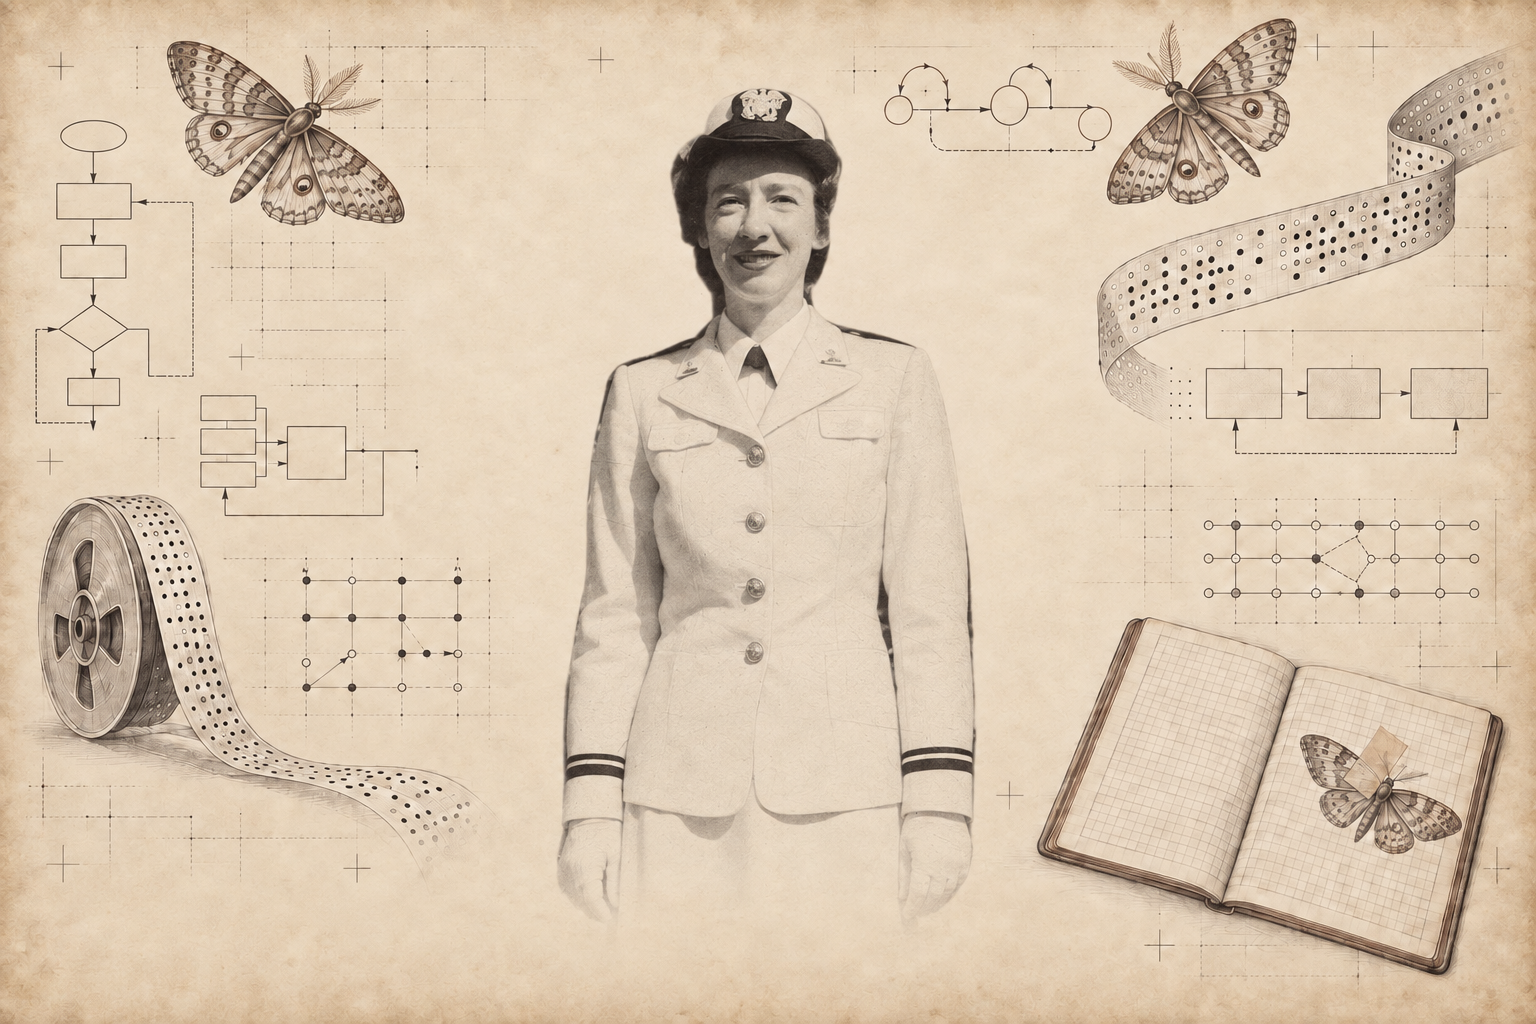
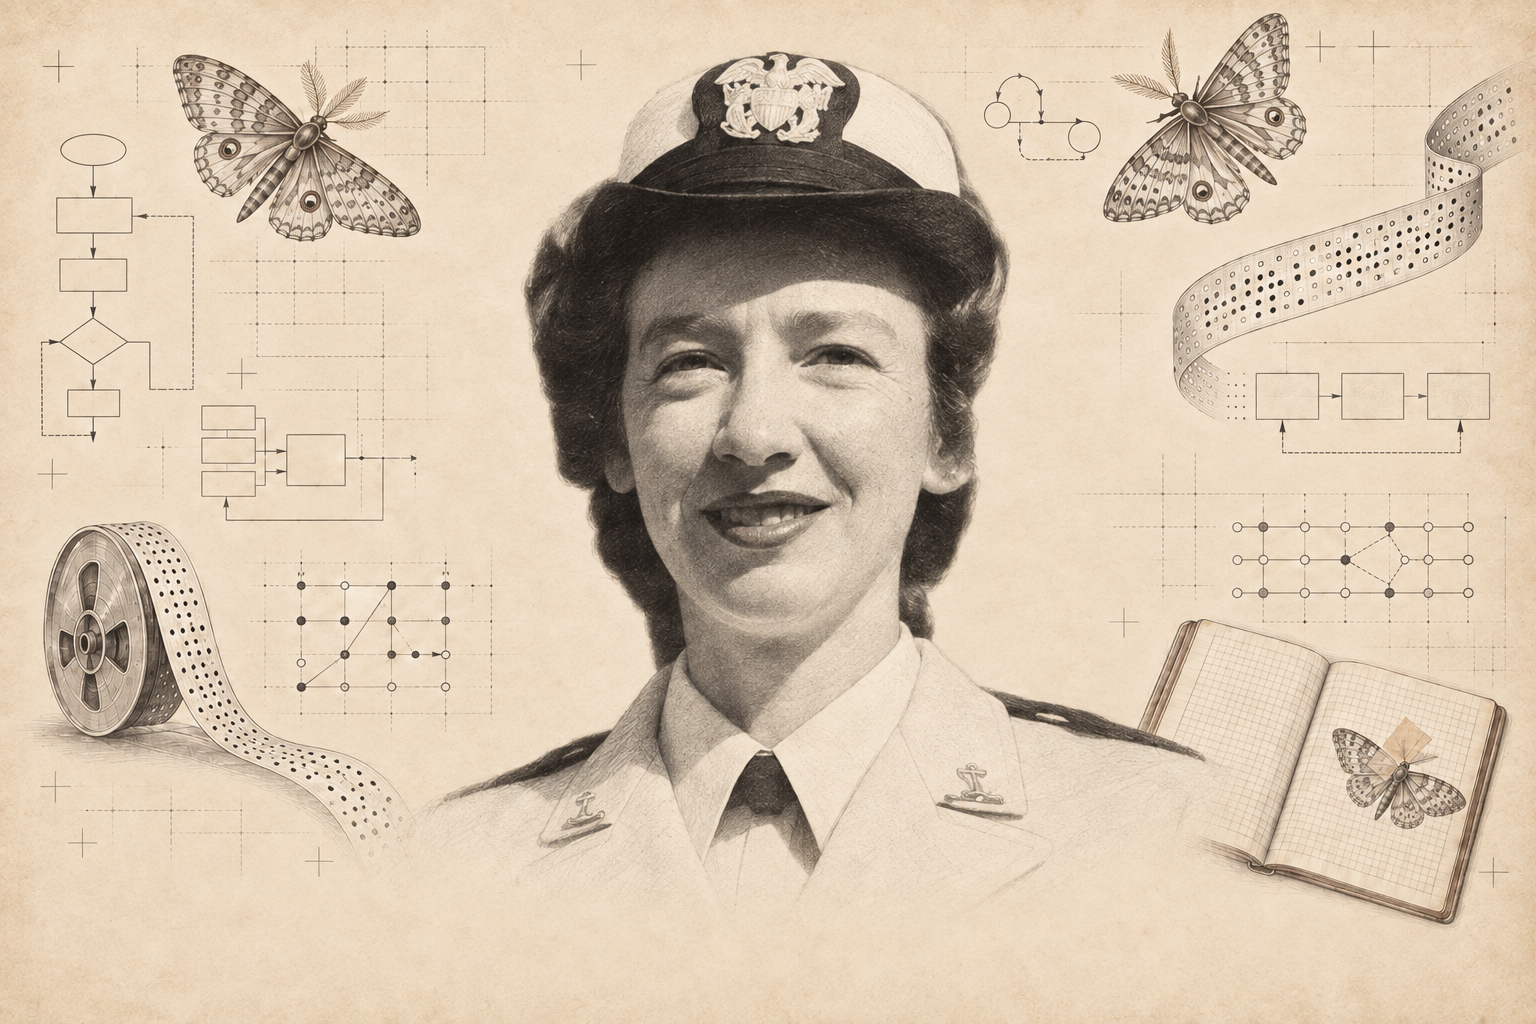
Unify young Hopper portrait with graphite series style

diff --git a/artwork/grace-hopper-young/PROMPT.md b/artwork/grace-hopper-young/PROMPT.md
@@ -1,5 +1,16 @@
 # Young Grace Hopper generation prompts
 
+## Series style revision
+
+Built-in ImageGen edit after comparing all fifteen original wallpapers and
+the Alan Kay proposal in upstream PR #8. Inputs: the previous `refined.png`,
+the retained `source.jpg` for identity, and `backgrounds/6-barbara-liskov.jpg`
+for series style. Output replaces `refined.png` (1536×1024). The previous
+version remains in Git history. This is a generated illustration, and the
+source photograph's unresolved rights still apply.
+
+Rework image 1, the young Grace Hopper wallpaper, into a unified Omarchy Giants series portrait. Image 2 is the actual archival identity reference: preserve this specific younger Grace Hopper's facial proportions, natural smile, hair, white naval uniform and cap. Image 3, Barbara Liskov, is STYLE AND COMPOSITION REFERENCE ONLY, never use its identity or clothing. Make a substantially larger head-and-shoulders/upper-chest bust, centered slightly right, with cap around y=12%, face filling approximately y=25%-56%, shoulders extending x=28%-76%, chest gently dissolving into parchment by y=84%. Crop out hands and lower torso. Render as a realistic yet visibly hand-drawn graphite and fine ink portrait: delicate crosshatching, stippling, textured charcoal shadows, subtle paper grain through highlights. No glossy photographic skin; no caricature or invented beautification. Match image 3's muted cream parchment, neutral charcoal face, restrained sepia diagrams and soft feathered edges; reduce image 1's heavy brown vignette. Face must be the clear focal point. Keep the requested motifs but make them smaller and quieter: naturalistically illustrated moth upper-left heading northeast, another upper-right heading northwest, both different poses with detailed wings; thin curling punched paper tape along upper-right edge and a small reel at lower-left above caption space; modest open gridded logbook lower-right containing a tiny moth under translucent adhesive tape. The logbook is a symbolic illustration with NO historical handwriting. Fine faint flowcharts and technical grids around margins, lots of breathing room. All background motifs distinctly lower contrast than the face. Leave entire bottom 15% predominantly clean parchment for separately typeset lower-left caption. NO TEXT, no lettering, no signatures, no border. Landscape 3:2, highest detail. This is a stylized portrait based on the referenced historical photo, not an authentic new photograph.
+
 ## Portrait refinement
 
 Built-in ImageGen edit, using `photographic-composite.jpg` as the edit target

diff --git a/CREDITS.md b/CREDITS.md
@@ -76,7 +76,7 @@ The research was cross-checked against institutional histories and profiles:
 
 [16-grace-hopper-young.jpg](backgrounds/16-grace-hopper-young.jpg) is a
 6144×4096 AI-refined illustration based on a historical photograph. The
-central portrait has been generatively cleaned up; it is not an unaltered
+central portrait has been generatively reworked in graphite; it is not an unaltered
 archival photograph.
 
 ### Photograph and attribution
@@ -121,6 +121,14 @@ uniform detail while aiming to preserve the younger appearance, smile, white
 uniform, pose, and composition. These details are artistic reconstructions,
 not recovered historical evidence. Generative refinement does not establish
 redistribution rights or remove the source photograph's unresolved status.
+
+A subsequent series-style revision used the archival scan for identity and
+`backgrounds/6-barbara-liskov.jpg` for visual style. It enlarged the portrait
+to a head-and-shoulders composition, added visible graphite shading, and
+softened the transition into the parchment. Moths, a symbolic logbook, and
+punched paper tape remain in the margins. The exact prompt is retained in
+`artwork/grace-hopper-young/PROMPT.md`; the earlier refinement remains in Git
+history. This stylistic revision does not change the unresolved rights status.
 
 The generated artwork is retained as
 [`refined.png`](artwork/grace-hopper-young/refined.png) at 1536×1024 pixels.

diff --git a/README.md b/README.md
@@ -34,7 +34,7 @@ portrait credits, licenses, and generation details are in
 [CREDITS.md](CREDITS.md).
 
 An alternate [young Grace Hopper wallpaper](backgrounds/16-grace-hopper-young.jpg)
-uses an AI-refined portrait based on a real 1944–45 photograph of her smiling
+uses a graphite-style AI portrait based on a real 1944–45 photograph of her smiling
 in dress whites, surrounded by illustrated moths, an open logbook, and punched
 paper tape. Its archival source, generation details, and
 pending reuse-rights verification are documented in
